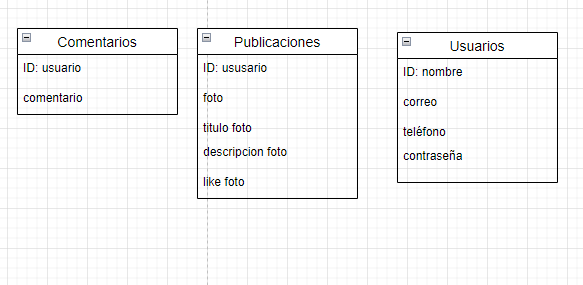
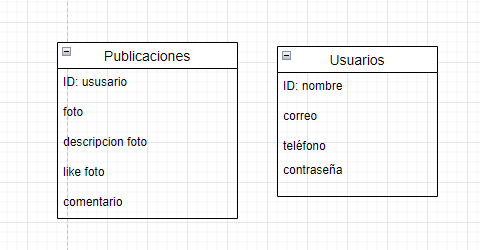
update
Arreglo de varias cosas, y se puede modificar usuarios

diff --git a/ProjectoAniku/src/controllers/usuarios.js b/ProjectoAniku/src/controllers/usuarios.js
@@ -1,4 +1,6 @@
+/* eslint-disable max-len */
 const fs = require('fs');
+const { Usuario } = require('../models');
 
 const usuarioServices = require('../services/usuario');
 
@@ -8,23 +10,14 @@ async function crearUsuario(req, res) {
 }
 
 async function editarUsuario(req, res) {
-  try {
-    const EditarUsuario = await usuarioServices.editarUsuario(req.params.id, req.body);
-    return res.status(200).send(EditarUsuario);
-  } catch (error) {
-    console.error(`Ha ocurrido un error al editar el usuario con ID ${req.params.id}: ${error}`);
-    return res.status(500).send('Ha ocurrido un error al editar el usuario');
-  }
+  const EditarUsuario = await usuarioServices.editarUsuario(req.body);
+  return res.status(200).send(EditarUsuario);
 }
 
 async function eliminarUsuario(req, res) {
-  try {
-    const EliminarUsuario = await usuarioServices.eliminarUsuario(req.params.id);
-    return res.status(200).send(EliminarUsuario);
-  } catch (error) {
-    console.error(`Error al eliminar usuario con ID ${req.params.id}: ${error}`);
-    return res.status(500).send('Error al eliminar usuario');
-  }
+  const { id } = req.params;
+  const EliminarUsuario = await usuarioServices.eliminarUsuario(id);
+  return res.status(200).send(EliminarUsuario);
 }
 
 module.exports = {
@@ -32,6 +25,3 @@ module.exports = {
   editarUsuario,
   eliminarUsuario,
 };
-
-/* Id CLIENTE:  1449171834-3gsrps9fi891j1c2a1afk2rdduclvg3r.apps.googleusercontent.com */
-/* Secreto del CLIENTE:  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 */

diff --git a/ProjectoAniku/src/services/usuario.js b/ProjectoAniku/src/services/usuario.js
@@ -1,3 +1,4 @@
+/* eslint-disable object-shorthand */
 const fs = require('fs');
 const { Usuario } = require('../models');
 
@@ -5,14 +6,16 @@ async function crearUsuario(user) {
   return new Usuario(user).save();
 }
 
-function editarUsuario(nombre, contenido) {
-  fs.writeFile(`${nombre}.note`, contenido, err => {
-    if (err) throw err;
-  });
+async function editarUsuario(body) {
+  const { id, ...datos } = body;
+  const updatedUser = await Usuario.findOneAndUpdate({ id }, datos);
+  return updatedUser;
 }
 
-function eliminarUsuario(user) {
-  return new Usuario(user).remove();
+async function eliminarUsuario(id) {
+  const { identificador } = { id: id };
+  const eliminarusuario = await Usuario.deleteOne(identificador);
+  return eliminarusuario;
 }
 
 module.exports = {

diff --git a/ProjectoAniku/src/controllers/publicaciones.js b/ProjectoAniku/src/controllers/publicaciones.js
@@ -1,0 +1,23 @@
+const fs = require('fs');
+
+const publicacionServices = require('../services/publicacion');
+
+async function crearPublicacion(req, res) {
+  const CrearPublicacion = await publicacionServices.crearPublicacion(req.body);
+  return res.status(200).send(CrearPublicacion);
+}
+
+async function eliminarPublicacion(req, res) {
+  try {
+    const EliminarPublicacion = await publicacionServices.eliminarPublicacion(req.params.id);
+    return res.status(200).send(EliminarPublicacion);
+  } catch (error) {
+    console.error(`Error al eliminar usuario con ID ${req.params.id}: ${error}`);
+    return res.status(500).send('Error al eliminar usuario');
+  }
+}
+
+module.exports = {
+  crearPublicacion,
+  eliminarPublicacion,
+};

diff --git a/ProjectoAniku/src/models/publicacion.js b/ProjectoAniku/src/models/publicacion.js
@@ -3,9 +3,9 @@ const { Schema, model } = require('mongoose');
 const publicacionSchema = new Schema({
   id: { type: String, unique: true, required: true },
   image: { type: String, required: true },
-  title: { type: Number, required: true },
   description: { type: String, required: true },
-  like: { type: Number, required: true },
+  likes: { type: Number, required: true, default: 0 },
+  comments: { type: String, required: true },
 });
 
 module.exports = model('Publicaciones', publicacionSchema);

diff --git a/ProjectoAniku/src/models/usuario.js b/ProjectoAniku/src/models/usuario.js
@@ -1,9 +1,10 @@
 const { Schema, model } = require('mongoose');
 
 const usuarioSchema = new Schema({
+  id: { type: Number, required: true, unique: true },
   name: { type: String, required: true },
-  email: { type: String, unique: true, required: true },
-  telephone: { type: Number, unique: true, required: true },
+  email: { type: String, required: true },
+  telephone: { type: Number, required: true, unique: true },
   password: { type: String, required: true },
 });
 

diff --git a/ProjectoAniku/src/services/publicacion.js b/ProjectoAniku/src/services/publicacion.js
@@ -1,0 +1,15 @@
+const fs = require('fs');
+const { Publicacion } = require('../models');
+
+async function crearPublicacion(publication) {
+  return new Publicacion(publication).save();
+}
+
+function eliminarPublicacion(user) {
+  return new Publicacion(user).remove();
+}
+
+module.exports = {
+  crearPublicacion,
+  eliminarPublicacion,
+};

diff --git a/ProjectoAniku/src/routes/usuario.js b/ProjectoAniku/src/routes/usuario.js
@@ -6,7 +6,7 @@ const router = express.Router();
 
 router.post('', crearUsuario);
 
-router.put('/:nombre', editarUsuario);
-router.delete('/:nombre', eliminarUsuario);
+router.put('/:id', editarUsuario);
+router.delete('/:id', eliminarUsuario);
 
 module.exports = router;
